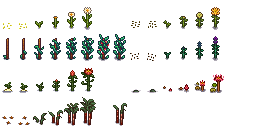
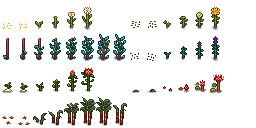
added compatibility for QLFG2 and fixed regrow spritesheet for sugarcane

Changed region(s): [[0.375, 0.75, 0.4375, 1.0]]

diff --git a/Byproducts/Byproducts/obj/Debug/net6.0/Byproducts.AssemblyInfo.cs b/Byproducts/Byproducts/obj/Debug/net6.0/Byproducts.AssemblyInfo.cs
@@ -13,7 +13,7 @@ using System.Reflection;
 [assembly: System.Reflection.AssemblyCompanyAttribute("Byproducts")]
 [assembly: System.Reflection.AssemblyConfigurationAttribute("Debug")]
 [assembly: System.Reflection.AssemblyFileVersionAttribute("1.0.0.0")]
-[assembly: System.Reflection.AssemblyInformationalVersionAttribute("1.0.0+6f6c647c8afbf7e25fd69d95464fdc59860eaa94")]
+[assembly: System.Reflection.AssemblyInformationalVersionAttribute("1.0.0+6e37bd80e1db1af72ac633e1f27764fd0825e514")]
 [assembly: System.Reflection.AssemblyProductAttribute("Byproducts")]
 [assembly: System.Reflection.AssemblyTitleAttribute("Byproducts")]
 [assembly: System.Reflection.AssemblyVersionAttribute("1.0.0.0")]
